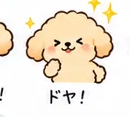
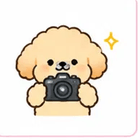
Re-source poodle art from clean per-pose sprite sheets, add confetti + sparkles
- Replace all cropped poodle illustrations with cells cut from the
  user's new grid-based sticker sheets (プードル3/4), where each
  pose already sits in its own bordered cell with margin. This
  eliminates the neighbor-bleed and decoration-clipping issues from
  the densely-packed original sheet.
- Add a lightweight vanilla-JS confetti burst (colored falling
  pieces, respects prefers-reduced-motion, auto-cleans up after the
  animation) triggered when 踊り終わった！できた is tapped.
- Add twinkling kirakira sparkle decorations around each hero image
  (mission/dance/done/calendar) via a reusable .sparkleWrap class.

diff --git a/index.html b/index.html
@@ -44,11 +44,21 @@ body{background:linear-gradient(180deg,#fff7fa 0,#fdfdfd 32%,#fff 100%)}.app{box
 #today{position:relative}#today:before{content:"💗";position:absolute;right:10px;top:22px;font-size:22px;opacity:.7}.otherBeforeDone{background:#fff8fb;border-radius:18px;padding:0 12px;border:1px solid #f6dbe5}.otherBeforeDone summary{padding:18px 0}.otherBeforeDone summary:after{content:"  ♡";font-size:20px}#finishButton{box-shadow:0 7px 18px rgba(210,85,125,.08)}#done{position:relative;padding-bottom:20px}#done:before{content:"✨  WELL DONE  ✨";display:block;text-align:center;color:#d45d83;font-size:13px;font-weight:800;letter-spacing:.12em;margin-bottom:8px}.doneIcon{filter:drop-shadow(0 8px 8px rgba(220,110,145,.14))}.doneTitle{font-size:40px;letter-spacing:.03em}#done .center{font-size:17px;font-weight:600}.recordBtn{font-size:18px;padding:18px 10px;border-radius:16px;box-shadow:0 10px 22px rgba(210,85,125,.13)}#calendar{position:relative;padding-top:8px}.calKicker{display:flex;align-items:center;justify-content:center;gap:6px;color:#d45d83;font-weight:800;font-size:16px;margin:8px 0 4px}.hanaIcon{box-sizing:border-box;width:26px;height:26px;object-fit:contain;padding:2px}.calTitle{color:#222}.cal .done{box-shadow:0 0 0 5px #fbeaf1,0 5px 12px rgba(242,149,184,.3)}#calendar .btn{background:#fff;color:#df557c;border:2px solid #df557c}.note{color:#aaa}
 :root{--pink:#df557c;--pink2:#f7d6e1;--blue:#5b97e8;--ink:#171717}body{background:radial-gradient(circle at 50% 0,#fff0f6 0,#fff 28%,#fff 100%)}.app{position:relative;overflow:hidden}.app:before,.app:after{content:"✦";position:fixed;pointer-events:none;color:#f5bfd1;opacity:.45;font-size:24px;z-index:0}.app:before{left:5px;top:22%;transform:rotate(-12deg)}.app:after{right:5px;top:56%;transform:rotate(14deg)}header{border-bottom:2px solid #f7dce6}header b{letter-spacing:.02em}header b:after{content:"  💗"}.box{position:relative;overflow:hidden}.box:after{content:"♡  ✦  ♡";position:absolute;right:10px;top:8px;color:#f5cfdd;font-size:20px;letter-spacing:4px;transform:rotate(8deg)}.sectionKicker{display:inline-block;background:#fff0f5;border-radius:999px;padding:6px 11px}.title{letter-spacing:.01em}.btn,.card a{transition:transform .12s ease,box-shadow .12s ease,filter .12s ease}.btn:active,.card a:active,.choose:active,details summary:active,#finishButton:active,.recordBtn:active{animation:tapShake .24s ease;transform:scale(.97)}@keyframes tapShake{0%{transform:scale(.97) rotate(0)}25%{transform:scale(.97) rotate(-1.8deg)}50%{transform:scale(.97) rotate(1.8deg)}75%{transform:scale(.98) rotate(-1deg)}100%{transform:scale(1) rotate(0)}}.btn:focus-visible,.card a:focus-visible,details summary:focus-visible{outline:4px solid #f6bfd2;outline-offset:3px}.otherBeforeDone{position:relative}.otherBeforeDone:before{content:"🎀";position:absolute;right:12px;top:-13px;font-size:25px;z-index:2}.otherBeforeDone summary{background:linear-gradient(180deg,#fafdff,#f2f8ff);border:2px solid #f3b8cf;border-radius:16px;margin:8px 0;color:#df7fa8;box-shadow:0 5px 14px rgba(210,85,125,.08)}.grid{gap:13px}.videoCard{position:relative;overflow:hidden;background:linear-gradient(180deg,#fff,#fff9fb)}.card{position:relative}.card:before{content:"✦";position:absolute;right:8px;top:5px;color:#f4b6ca;font-size:17px}.card b{font-size:14px}#finishButton{background:#fff9fb!important;border-width:2px!important;box-shadow:0 7px 18px rgba(210,85,125,.10),0 0 0 4px #fff0f5}#finishButton:active{background:#fbe7ef!important}#done:after{content:"✦  ♡  ✦";display:block;text-align:center;color:#f1b0c7;font-size:23px;letter-spacing:8px;margin-top:10px}.doneIcon{animation:floaty 2.2s ease-in-out infinite}.doneTitle{text-shadow:0 3px 0 #fff0f5}.recordBtn{position:relative;overflow:hidden;background:#df557c!important;color:#fff!important;border:0!important;opacity:1!important}.recordBtn:after{content:"✦  ✦  ✦";position:absolute;right:13px;top:3px;color:#ffd7e3;font-size:14px;letter-spacing:3px}#calendar{background:linear-gradient(180deg,#fff,#fff8fb);border-radius:22px;padding-left:10px;padding-right:10px}#calendar:after{content:"🌸  ✨  🌸";display:block;text-align:center;color:#e7a0b8;font-size:20px;margin-top:16px;letter-spacing:6px}.cal div{border-radius:12px}.cal .done{box-shadow:0 0 0 5px #fbeaf1,0 5px 12px rgba(242,149,184,.35),0 0 0 1px #f295b8}
 .recordBtn{opacity:1!important;filter:none!important}.tap-shake{animation:tapShakeReal .34s ease both!important;transform-origin:center!important}@keyframes tapShakeReal{0%{transform:scale(1)}18%{transform:scale(.96) rotate(-2.5deg)}38%{transform:scale(1.02) rotate(2.5deg)}58%{transform:scale(.985) rotate(-1.5deg)}78%{transform:scale(1.01) rotate(.8deg)}100%{transform:scale(1) rotate(0)}}@media (prefers-reduced-motion:reduce){.tap-shake{animation:none!important}}
+
+.sparkleWrap{position:relative;display:block;width:fit-content;margin:8px auto 6px}
+.sparkleWrap .heroImg,.sparkleWrap .heroImgSmall,.sparkleWrap .doneIcon{margin:0}
+.sparkleWrap:before,.sparkleWrap:after{content:"";position:absolute;width:28px;height:28px;background:url(assets/kirakira_icon.png) center/contain no-repeat;animation:twinkle 2s ease-in-out infinite;pointer-events:none}
+.sparkleWrap:before{top:-8px;left:-12px;animation-delay:.1s}
+.sparkleWrap:after{bottom:-6px;right:-10px;width:22px;height:22px;animation-delay:.9s}
+@keyframes twinkle{0%,100%{opacity:.35;transform:scale(.75) rotate(0deg)}50%{opacity:1;transform:scale(1.15) rotate(18deg)}}
+@media (prefers-reduced-motion:reduce){.sparkleWrap:before,.sparkleWrap:after{animation:none;opacity:.8}}
+.confetti-piece{position:fixed;top:-24px;z-index:999;pointer-events:none;border-radius:2px;will-change:transform,opacity}
+@keyframes confettiFall{to{transform:translateY(115vh) rotate(var(--rot));opacity:0}}
 </style></head>
 <body><div class="app"><header><img class="headerIcon" src="assets/header_icon.png" alt=""><b>おふろ前ダンス</b></header><main id="top">
-<section id="mission" class="screen active"><img class="heroImg" src="assets/mission_hero.png" alt=""><p class="bigLead">今日も、自分のために。</p><h1>おつかれさま！ <img class="inlineIcon" src="assets/ofuro_icon.png" alt=""></h1><p class="lead">まずは、ちょっとだけ動こう。<br>できたら、それだけで花丸。</p>
+<section id="mission" class="screen active"><div class="sparkleWrap"><img class="heroImg" src="assets/mission_hero.png" alt=""></div><p class="bigLead">今日も、自分のために。</p><h1>おつかれさま！ <img class="inlineIcon" src="assets/ofuro_icon.png" alt=""></h1><p class="lead">まずは、ちょっとだけ動こう。<br>できたら、それだけで花丸。</p>
 <section class="box"><div class="label">TODAY'S MISSION</div><div class="title">ダンス10分！ ✨</div><div class="desc">楽しく汗をかいて、気分もスッキリ。<br>今日はどのダンスにする？</div><div style="display:flex;gap:8px;flex-wrap:wrap;margin-top:12px"><span style="background:#fbeaf1;color:#c9557b;border-radius:999px;padding:8px 13px;font-weight:800">10分</span><span style="background:#fbeaf1;color:#c9557b;border-radius:999px;padding:8px 13px;font-weight:800">おうちでOK</span><span style="background:#fbeaf1;color:#c9557b;border-radius:999px;padding:8px 13px;font-weight:800">楽しく</span></div><a class="btn goBtn" href="#today">▶ 今日のダンスへGO！</a></section></section>
-<section id="today" class="screen"><p class="sectionKicker">TODAY'S DANCE <img class="inlineIcon" src="assets/fire_icon.png" alt=""></p><h1>今日はこれ！ <img class="inlineIcon" src="assets/fire_icon.png" alt=""></h1><p class="lead">おふろ前に、無理なく楽しく。</p><section class="box"><div class="label">今日のおすすめ</div><img class="heroImgSmall" src="assets/dance_hero.png" alt=""><div class="title">楽しい、腰振り5分</div><div class="desc">楽しく体を動かして、いい汗かこう！<br>終わったら、そのままおふろへ<img class="inlineIcon" src="assets/ofuro_icon.png" alt=""></div><div style="display:flex;gap:8px;flex-wrap:wrap;margin-top:12px"><span style="background:#fbeaf1;color:#c9557b;border-radius:999px;padding:8px 13px;font-weight:800">5分</span><span style="background:#fbeaf1;color:#c9557b;border-radius:999px;padding:8px 13px;font-weight:800">楽しく</span></div><a class="btn" href="https://www.youtube.com/watch?v=wmhtjOzwBFY" target="_blank">▶ YouTubeで踊る</a></section>
+<section id="today" class="screen"><p class="sectionKicker">TODAY'S DANCE <img class="inlineIcon" src="assets/fire_icon.png" alt=""></p><h1>今日はこれ！ <img class="inlineIcon" src="assets/fire_icon.png" alt=""></h1><p class="lead">おふろ前に、無理なく楽しく。</p><section class="box"><div class="label">今日のおすすめ</div><div class="sparkleWrap"><img class="heroImgSmall" src="assets/dance_hero.png" alt=""></div><div class="title">楽しい、腰振り5分</div><div class="desc">楽しく体を動かして、いい汗かこう！<br>終わったら、そのままおふろへ<img class="inlineIcon" src="assets/ofuro_icon.png" alt=""></div><div style="display:flex;gap:8px;flex-wrap:wrap;margin-top:12px"><span style="background:#fbeaf1;color:#c9557b;border-radius:999px;padding:8px 13px;font-weight:800">5分</span><span style="background:#fbeaf1;color:#c9557b;border-radius:999px;padding:8px 13px;font-weight:800">楽しく</span></div><a class="btn" href="https://www.youtube.com/watch?v=wmhtjOzwBFY" target="_blank">▶ YouTubeで踊る</a></section>
 <details id="other" class="otherBeforeDone"><summary>他の動画から選ぶ ↓</summary><div class="selector">好きな動画を選んでね</div><div class="grid">
 <article class="card"><span class="videoIllo"><img src="assets/card_furifuri.png" alt=""></span><b>楽しい、腰振り5分</b><a href="https://www.youtube.com/watch?v=wmhtjOzwBFY" target="_blank">▶ YouTubeで踊る</a></article>
 <article class="card"><span class="videoIllo"><img src="assets/card_dansu.png" alt=""></span><b>3分簡単筋トレと有酸素</b><a href="https://www.youtube.com/watch?v=LmD5SU0j_lY" target="_blank">▶ YouTubeで踊る</a></article>
@@ -68,8 +78,8 @@ body{background:linear-gradient(180deg,#fff7fa 0,#fdfdfd 32%,#fff 100%)}.app{box
 </div><p class="note">選んだ動画はYouTubeで開きます。</p></details>
 <a id="finishButton" class="btn" href="#done" style="background:#fff;color:#df557c;border:2px solid #df557c;">✓ 踊り終わった！できた</a>
 </section>
-<section id="done" class="screen"><img class="doneIcon" src="assets/done_hero.png" alt=""><div class="doneTitle">できたー！</div><p class="center">今日もよく頑張ったね。💓<br><b>自分のために動けた、えらい！</b><br>そのまま気持ちよく、おふろへ<img class="inlineIcon" src="assets/ofuro_icon.png" alt=""></p><a class="btn recordBtn" href="#calendar">✓ できた！ カレンダーへ ↓</a></section>
-<section id="calendar" class="screen"><img class="heroImgSmall" src="assets/calendar_hero.png" alt=""><div class="calKicker"><img class="hanaIcon" src="assets/hanamaru_icon.png" alt=""> 今日の花丸 <img class="hanaIcon" src="assets/hanamaru_icon.png" alt=""></div><div class="calTitle">カレンダー</div><div class="month" id="calMonth"></div><div class="cal" id="calGrid"><div class="head">日</div><div class="head">月</div><div class="head">火</div><div class="head">水</div><div class="head">木</div><div class="head">金</div><div class="head">土</div></div><p class="center">今日の「できた！」が残ったよ ✨<br><b>明日の自分にも、花丸を。</b></p><a class="btn" href="#mission">今日の画面へ戻る</a></section>
+<section id="done" class="screen"><div class="sparkleWrap"><img class="doneIcon" src="assets/done_hero.png" alt=""></div><div class="doneTitle">できたー！</div><p class="center">今日もよく頑張ったね。💓<br><b>自分のために動けた、えらい！</b><br>そのまま気持ちよく、おふろへ<img class="inlineIcon" src="assets/ofuro_icon.png" alt=""></p><a class="btn recordBtn" href="#calendar">✓ できた！ カレンダーへ ↓</a></section>
+<section id="calendar" class="screen"><div class="sparkleWrap"><img class="heroImgSmall" src="assets/calendar_hero.png" alt=""></div><div class="calKicker"><img class="hanaIcon" src="assets/hanamaru_icon.png" alt=""> 今日の花丸 <img class="hanaIcon" src="assets/hanamaru_icon.png" alt=""></div><div class="calTitle">カレンダー</div><div class="month" id="calMonth"></div><div class="cal" id="calGrid"><div class="head">日</div><div class="head">月</div><div class="head">火</div><div class="head">水</div><div class="head">木</div><div class="head">金</div><div class="head">土</div></div><p class="center">今日の「できた！」が残ったよ ✨<br><b>明日の自分にも、花丸を。</b></p><a class="btn" href="#mission">今日の画面へ戻る</a></section>
 </main></div>
 <script>
 (function(){let musicStarted=false;let bgm=new Audio();bgm.loop=true;
@@ -78,8 +88,30 @@ function goToScreen(id){if(SCREENS.indexOf(id)===-1)return;SCREENS.forEach(funct
 function startMusic(){if(musicStarted)return;musicStarted=true;var p=bgm.play();if(p&&p.catch)p.catch(function(){musicStarted=false;});}
 function stopMusic(){try{bgm.pause();bgm.currentTime=0;}catch(e){}musicStarted=false;}
 function shake(el){if(!el)return;el.classList.remove('tap-shake');void el.offsetWidth;el.classList.add('tap-shake');window.setTimeout(function(){el.classList.remove('tap-shake');},360);}
+function launchConfetti(){
+  if(window.matchMedia && window.matchMedia('(prefers-reduced-motion: reduce)').matches) return;
+  var colors=['#df557c','#ff8fa3','#ffd166','#8ecae6','#ffffff','#f7d6e1'];
+  var count=46;
+  for(var i=0;i<count;i++){
+    var el=document.createElement('div');
+    el.className='confetti-piece';
+    var size=6+Math.random()*7;
+    var isCircle=Math.random()<0.4;
+    el.style.width=size+'px';
+    el.style.height=(isCircle?size:size*1.6)+'px';
+    el.style.borderRadius=isCircle?'50%':'2px';
+    el.style.left=(Math.random()*100)+'vw';
+    el.style.background=colors[Math.floor(Math.random()*colors.length)];
+    var duration=1.6+Math.random()*1.2;
+    var rot=(Math.random()*360-180)+'deg';
+    el.style.setProperty('--rot', rot);
+    el.style.animation='confettiFall '+duration+'s cubic-bezier(.25,.46,.45,.94) '+(Math.random()*0.3)+'s forwards';
+    document.body.appendChild(el);
+    (function(node,ms){window.setTimeout(function(){node.remove();},ms*1000+400);})(el, duration+0.3);
+  }
+}
 document.addEventListener('pointerdown',function(e){startMusic();var el=e.target.closest('.btn,.card a,details summary,.choose');if(!el)return;shake(el);}, {passive:true});
-document.addEventListener('click',function(e){var el=e.target.closest('.btn,.card a,details summary,.choose');if(!el)return;var href=el.getAttribute('href');if(href&&href.charAt(0)==='#'){e.preventDefault();window.setTimeout(function(){goToScreen(href.slice(1));},180);}});
+document.addEventListener('click',function(e){var el=e.target.closest('.btn,.card a,details summary,.choose');if(!el)return;var href=el.getAttribute('href');if(href&&href.charAt(0)==='#'){e.preventDefault();if(el.id==='finishButton')launchConfetti();window.setTimeout(function(){goToScreen(href.slice(1));},180);}});
 document.addEventListener('visibilitychange',function(){if(document.hidden)stopMusic();});
 goToScreen('mission');})();
 (function(){const KEY="ofuromae-dance-done";const today=new Date();const y=today.getFullYear();const monthIndex=today.getMonth();const m=String(monthIndex+1).padStart(2,"0");const d=String(today.getDate()).padStart(2,"0");const dateKey=y+"-"+m+"-"+d;
